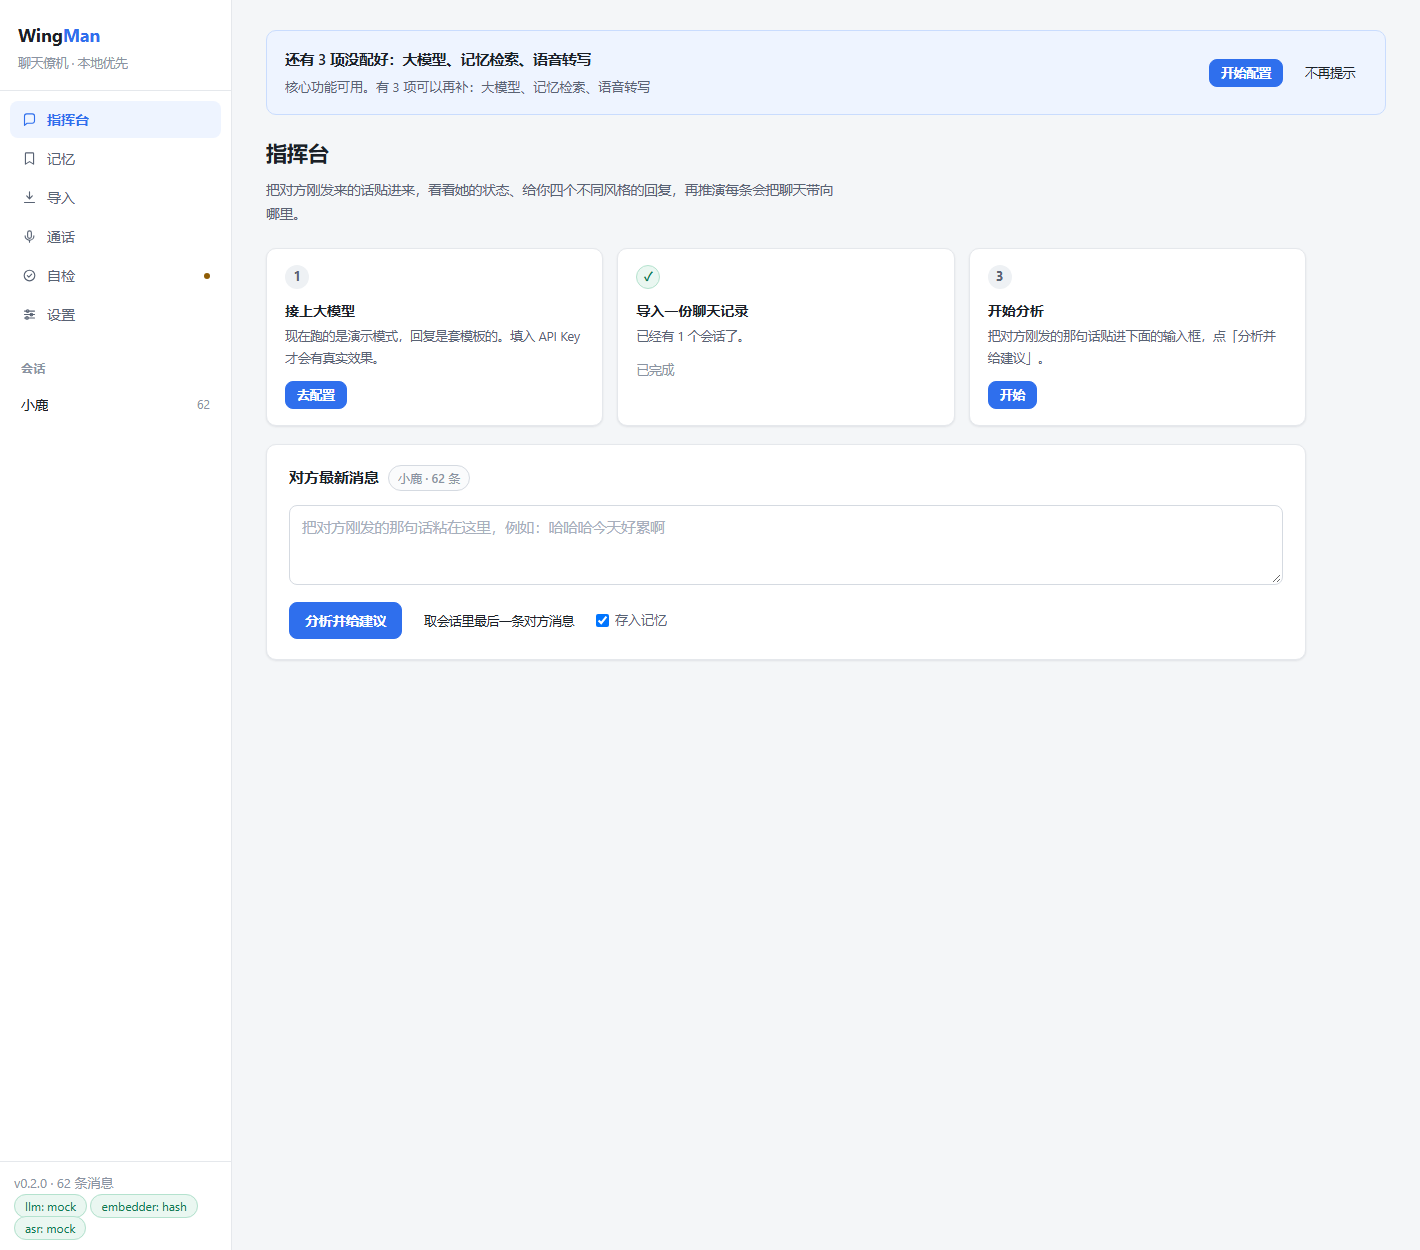
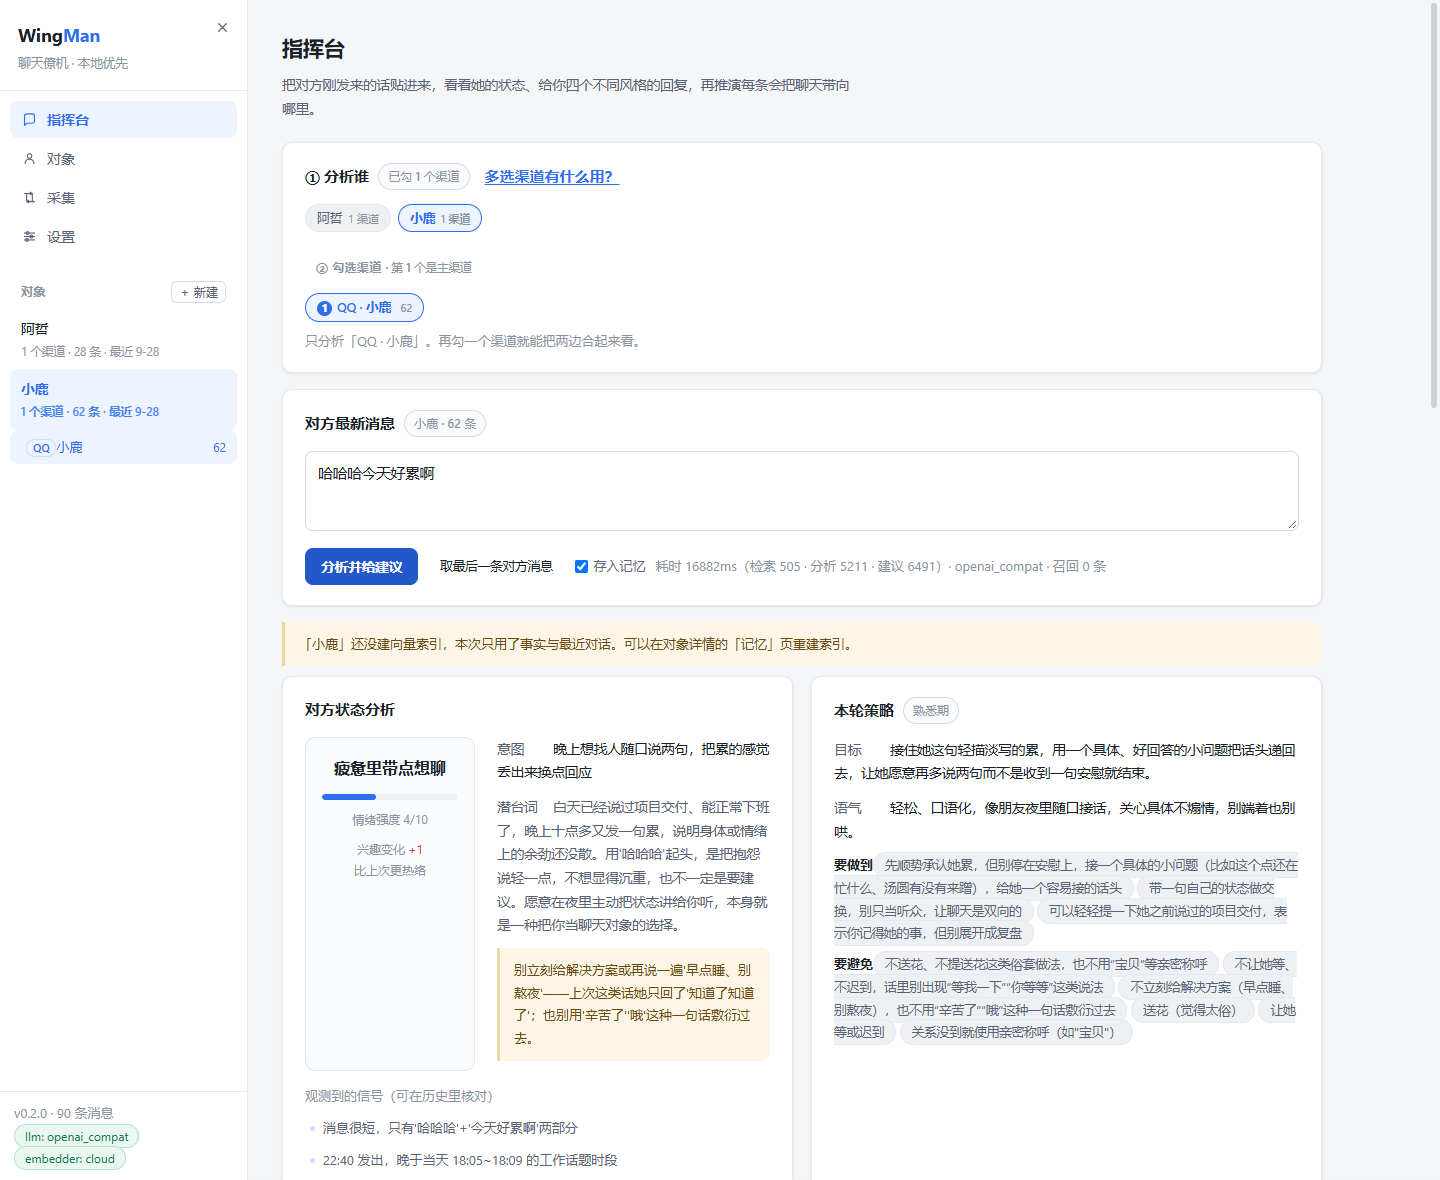
docs: 界面截图换成本版本的，README 的示例也换成真实输出
README 上挂的三张图还是 7 项导航时的界面（指挥台 / 记忆 / 导入 / 通话 /
自检 / 设置），而 0.1.4 起导航就收敛成 4 项了；图上还带着已经撤下的
`asr: mock` 组件和「语音识别」卡片。看一眼图就以为装的是老版本。

重新截了四张（1440×1180，比原来的 1076 宽清晰）：
- ui-copilot.png  指挥台：选对象 → 勾渠道 → 贴消息 → 分析结果
- ui-objects.png  对象详情（新增，补上"以对象为中心"这一层）
- ui-collect.png  采集页：本机版本探测 + 两条采集通道 + 游标
- ui-settings.png 设置页：组件只剩 llm / embedder

**采集页那张做了脱敏**：那个页面会把本机真实的微信 wxid、QQ 号和
数据目录渲染出来，直接截图等于把它们发布出去。处理方式是"截图前把
文本节点替换成示例值"（`wxid_example_demo_user` / `D:/WingManDemo/...`），
而不是打码 —— 模糊挡得住眼睛、挡不住 OCR。README 里也加了一行说明。

README 的示例也从编的换成了这次真实跑出来的（"哈哈哈今天好累啊" →
情绪 4/10 / 建议 6.6 分起）。原来的示例和截图对不上，属于两个版本的拼盘。

diff --git a/README.md b/README.md
@@ -212,28 +212,36 @@ python -m uvicorn app.main:app --reload --port 8787
 
 界面是这样的（浅色、不刺眼；顶部那三张「上手卡」在配置完成后会自动消失）：
 
-<img src="docs/images/ui-copilot.png" alt="WingMan 指挥台界面" width="880">
+<img src="docs/images/ui-copilot.png" alt="WingMan 指挥台界面：选对象、勾渠道、贴入对方最新消息、拿到分析与建议" width="880">
 
 选中和某个人的全部聊天记录 → 告诉它你的目标（比如"想约她周末看展"）→
 之后对方每发一条消息，你点一下「分析」，它就给你：
 
 ```
 ┌─ 对方状态分析 ────────────────────────────────┐
-│ 情绪：轻松愉悦 (7/10)   兴趣度变化：+1          │
-│ 意图：延续话题，等你接话                         │
-│ 潜台词：「今天心情不错，希望你也是」              │
-│ 观测信号：① 用了 2 个表情 ② 主动提问 ③ 回复变快   │
-│ 风险点：她提了"周末"，但没说有没有空 —— 别硬推     │
+│ 情绪：疲惫里带点想聊   强度 4/10   兴趣变化 +1   │
+│ 意图：晚上想找人随口说两句，把累的感觉丢出来换点回应 │
+│ 潜台词：白天说过项目交付，十点多又发一句累 ——      │
+│         余劲没散。用"哈哈哈"起头是把抱怨说轻一点   │
+│ 信号：① 只有 7 个字 ② 22:40 发来 ③ 没有提问      │
+│ 风险：别立刻给解决方案，"早点睡"上回她只回了三个字  │
 └───────────────────────────────────────────────┘
 
 ┌─ 建议回复（4 选 1）─────────── 综合分 ── 走向预测 ─┐
-│ A 调侃式接梗   "那我是不是该收门票了"   8.6  升温 ↗ │
-│ B 真诚共情     "听着就好累，抱抱"       7.9  持平 → │
-│ C 顺势推进邀约 "那周日带你去放松下？"    7.2  升温 ↗ │
-│ D 保守回应     "嗯嗯"                  4.1  降温 ↘ │
+│ D 顺势推进 "周末缓过来就火锅走一个，毛肚管够" 6.6 升温 66%│
+│ A 接梗调侃 "笑这么大声，是累到没力气抱怨了吧" 5.7 持平 61%│
+│ B 真诚共情 "熬了这么久，累是攒着的吧"         5.7 持平 61%│
+│ C 好奇引导 "这个点还没歇？汤圆有没有来趴你键盘上" 5.7 持平 61%│
 └───────────────────────────────────────────────┘
         ↓ 点任意一条，展开 3 轮走向推演树
 ```
+
+每条建议都带**自然度 / 共情 / 推进力 / 风险**四个维度的打分依据，
+以及"为什么这么回 / 预期效果 / 风险"。分数是本地启发式算的，用来排序，不是绝对值。
+
+**以「对象」为中心**（v0.1.4 起）—— 一个人可以有多段记录，看的是合起来的视野：
+
+<img src="docs/images/ui-objects.png" alt="WingMan 对象详情页：概览、渠道、最近消息" width="880">
 
 ---
 
@@ -310,7 +318,9 @@ python -m uvicorn app.main:app --reload --port 8787
 
 ### 采集页长什么样
 
-<img src="docs/images/ui-collect.png" alt="WingMan 采集页" width="880">
+<img src="docs/images/ui-collect.png" alt="WingMan 采集页：本机版本探测、自动采集、半自动采集、游标" width="880">
+
+> 图里的账号与路径是示例值（截图前替换过），不是任何人的真实信息。
 
 四张卡片就是四个问题：① 我的版本支不支持 ② 自动采集能不能跑 ③ 采不动怎么办
 ④ 采到哪了（游标）。第 ② 张卡片的「先预览」走完整条链路但**不写库** ——
